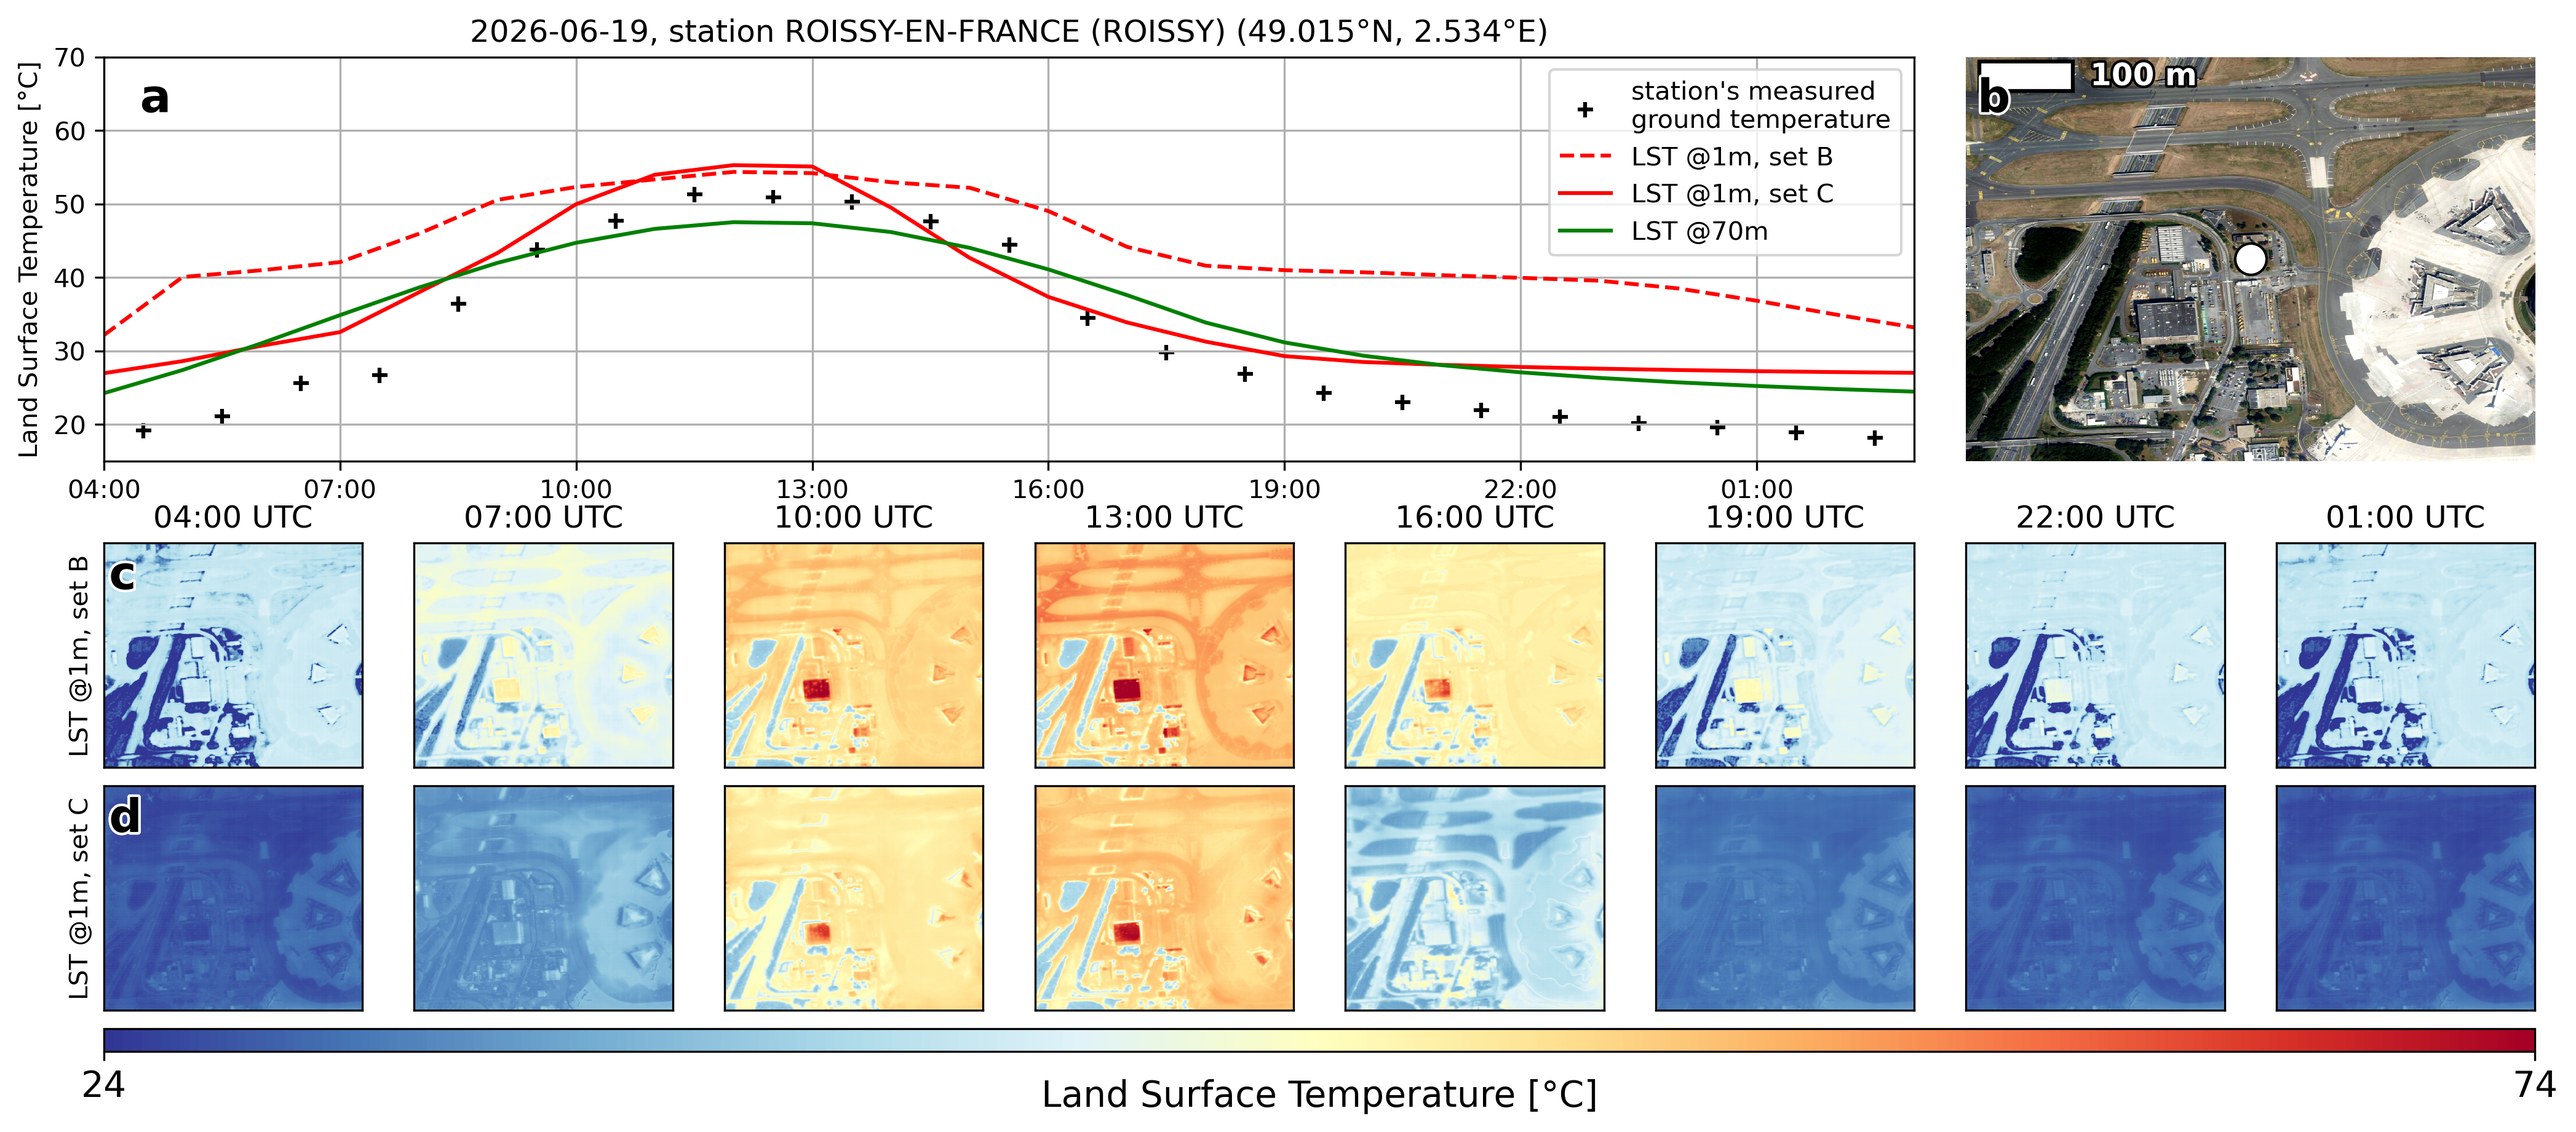
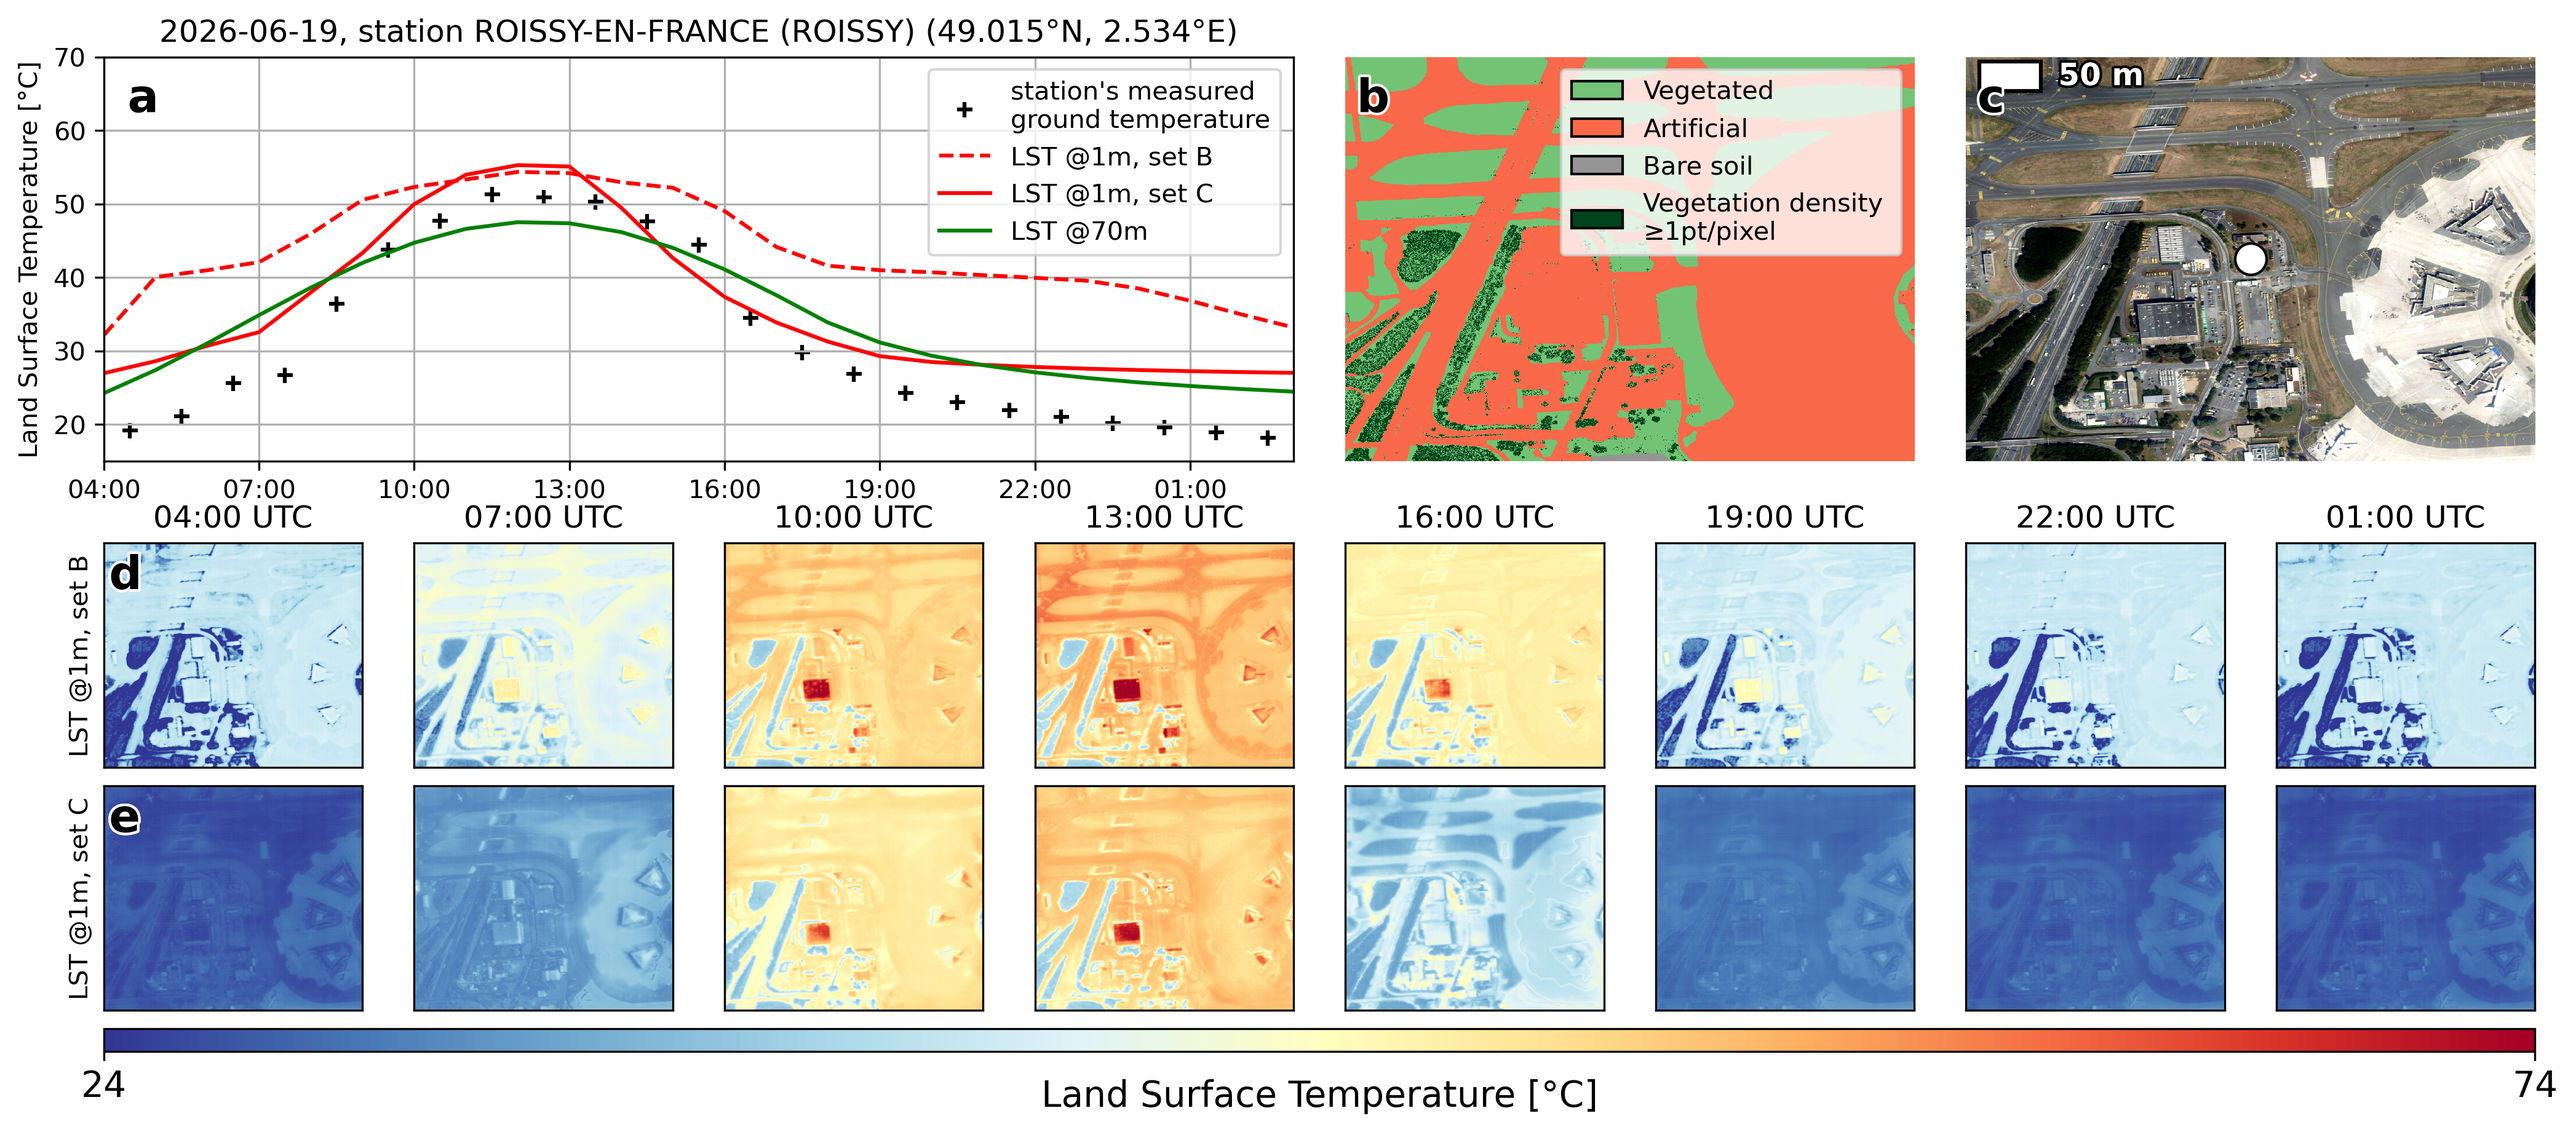
updated figure of temporal evaluation

diff --git a/_processes/_MISC_temporal_validation.py b/_processes/_MISC_temporal_validation.py
@@ -6,6 +6,7 @@ import datetime
 import matplotlib.pyplot as plt
 import matplotlib.gridspec as gridspec
 import matplotlib.patheffects as path_effects
+from matplotlib.patches import Patch
 
 from DeThermIn import read_datacube
 from DeThermIn.metadata import start, end, extensions
@@ -109,7 +110,8 @@ for coord, file in zip(coords, files):
     fig = plt.figure(figsize=(17, 7))
     gs = gridspec.GridSpec(5,8, fig, height_ratios=[0.9, 0.1, 0.5, 0.5, 0.05])
 
-    axes = [fig.add_subplot(gs[0, :6]),
+    axes = [fig.add_subplot(gs[0, :4]),
+            fig.add_subplot(gs[0, 4:6]),
             fig.add_subplot(gs[0, 6:])]
 
     space = fig.add_subplot(gs[1, :])
@@ -156,9 +158,34 @@ for coord, file in zip(coords, files):
     axes[0].grid(True)
     axes[0].legend(loc="upper right")
 
-    dc.plot("orthoimage", ax=axes[1], scale_size=100)
+    layers = [
+        #("Water", dc.data.isel(time=0).water_mask),
+        ("Vegetated", dc.data.isel(time=0).vegetalized),
+        ("Artificial", dc.data.isel(time=0).artificial),
+        ("Bare soil", dc.data.isel(time=0).mineralized)
+    ]
+    handles = []
+    for label, layer in layers:
+        cmap = plt.get_cmap(layer.plot_kwargs["cmap"])
+        layer.where(layer).plot.imshow(cmap=cmap, ax=axes[1], add_colorbar=False)
+        handles.append(
+            Patch(
+                facecolor=cmap(0.5),  # ou cmap(1.0)
+                edgecolor="black",
+                label=label,
+            )
+        )
+
+    dc.data.isel(time=0).vegetation.where(dc.data.isel(time=0).vegetation>=1).plot(ax=axes[1], cmap="Greens", vmax=1, add_colorbar=False)
+    handles.append(Patch(facecolor=plt.get_cmap("Greens")(1.0), edgecolor="black", label="Vegetation density \n≥1pt/pixel"))
+
+    axes[1].legend(handles=handles, loc="upper right")
     axes[1].set_title("")
-    axes[1].scatter(dc.data.x[len(dc.data.x)//2], dc.data.y[len(dc.data.y)//2], marker="o", edgecolors="k", c="w", s=150)
+    axes[1].axis("off")
+
+    dc.plot("orthoimage", ax=axes[2], scale_size=50)
+    axes[2].set_title("")
+    axes[2].scatter(dc.data.x[len(dc.data.x)//2], dc.data.y[len(dc.data.y)//2], marker="o", edgecolors="k", c="w", s=150)
 
 
     for n, ax in enumerate(LST_static_axes):
@@ -187,7 +214,7 @@ for coord, file in zip(coords, files):
     cbar.set_ticks([vmin, vmax])
     cbar.set_ticklabels([vmin, vmax])
 
-    for ax, letter in zip(axes, ["a", "b"]):
+    for ax, letter in zip(axes, ["a", "b", "c"]):
         txt = ax.text(
             0.02, 0.95, letter,
             transform=ax.transAxes,
@@ -201,7 +228,7 @@ for coord, file in zip(coords, files):
             path_effects.Normal()
         ])
 
-        for ax, letter in zip([LST_static_axes[0], LST_dynamic_axes[0]], ["c", "d"]):
+        for ax, letter in zip([LST_static_axes[0], LST_dynamic_axes[0]], ["d", "e"]):
             txt = ax.text(
                 0.02, 0.95, letter,
                 transform=ax.transAxes,

diff --git a/_execute_processes.py b/_execute_processes.py
@@ -12,10 +12,10 @@ path = str(BASE_DIR / "_figures") + "/"
 
 CWDs = {
     #"_DATA_": BASE_DIR,
-    #"_MISC_": BASE_DIR,
+    "_MISC_": BASE_DIR,
     #"_SPECS_": BASE_DIR
     #"_FUSION_": BASE_DIR / metadata["fusion_path"],
-    "_SR_": BASE_DIR / metadata["super_resolution_path"]
+    #"_SR_": BASE_DIR / metadata["super_resolution_path"]
 }
 
 extra_args = {
